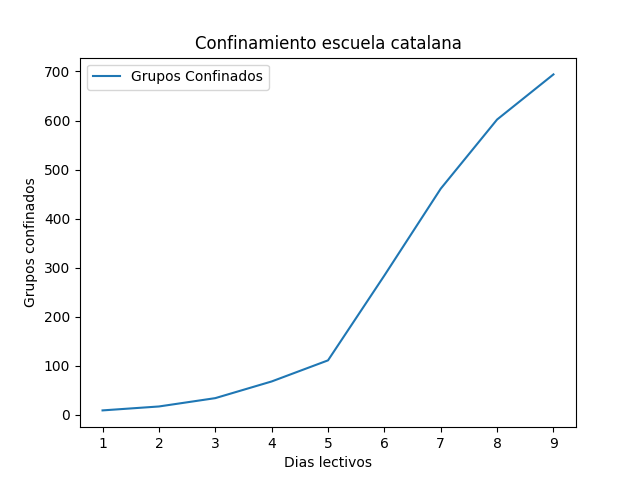
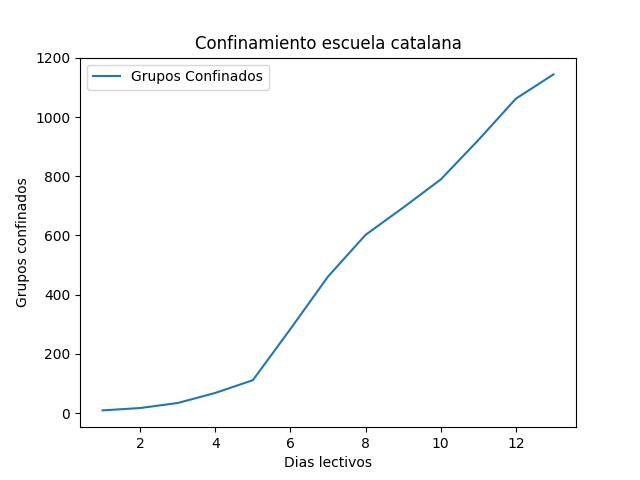
Datos actualizados

diff --git a/README.md b/README.md
@@ -7,3 +7,6 @@ Total de centros docentes en Cataluña 5455
 # Fuentes de los datos recopilados
 * [Generalitat de Cataluña](https://tracacovid.akamaized.net/#/)
 * En la hoja de calculo existe para cada fila una columna con el link a la correspondiente fuente de los datos
+Grups confinats a les escoles de Catalunya
+
+Segons les últimes dades del Departament d’Educació (dissabte 26 de setembre), el nombre de grups confinats a les escoles per un positiu de covid-19 és de 922. A Catalunya hi ha 60.000 grups escolars tot i que les dades definitives no estan tancades, segons el Departament d’Educació. Per tant, hi ha un 1,5 % de grups confinats a Catalunya mentre que el 98,5 % funciona amb normalitat. En total, als centres educatius s’han detectat 1.792 casos positius, 288 més que en el darrer balanç.
